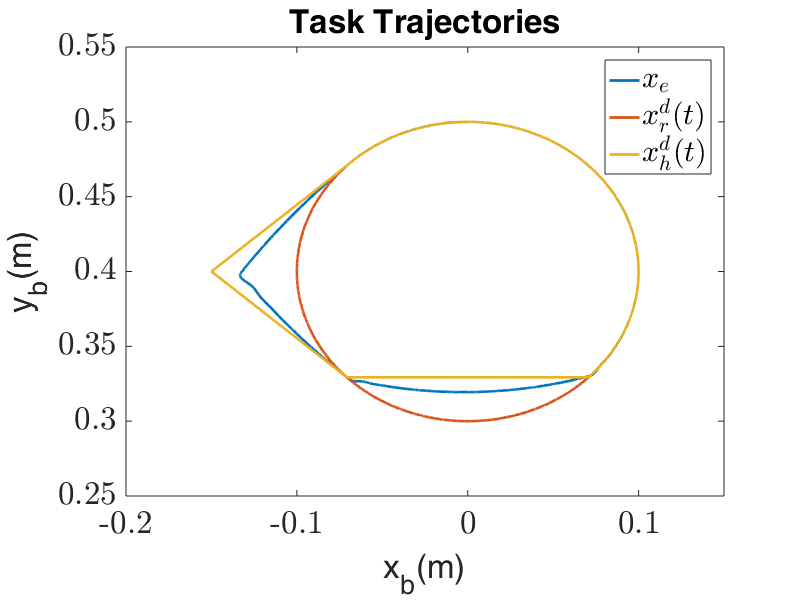
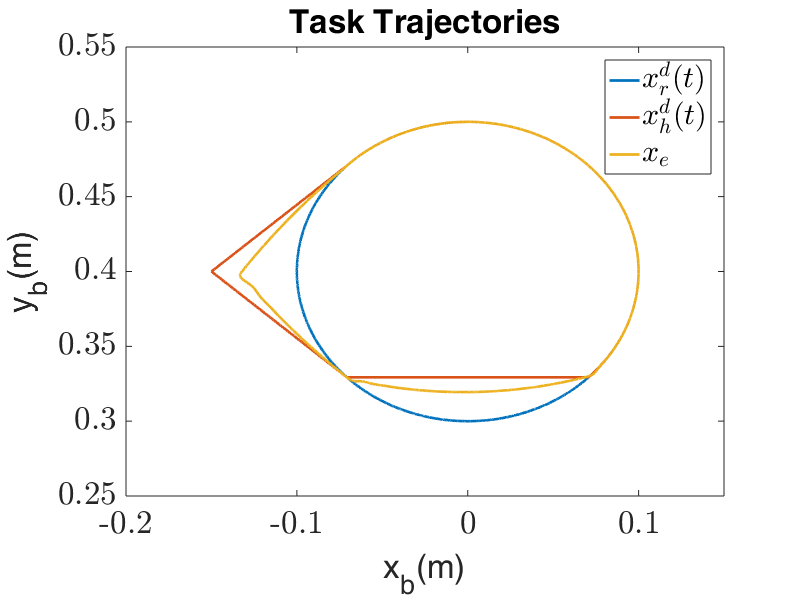
minor plot changes

diff --git a/ImpedanceControl/main.m b/ImpedanceControl/main.m
@@ -78,7 +78,7 @@ for i=1:length(t)
     [xR,xRDot,xRDotDot] = robotTraj(t(i),omega,tSim);
     xH = humanTraj(t(i),omega,tSim);
     
-    %alpha variation for simulation
+%     alpha variation for simulation
     
     icc = Kicc * norm(xR-xH) + iccMin;
     
@@ -170,14 +170,15 @@ end
 
 figure('pos',[10 10 800 600]);
 
-plot(Xe(1,:),Xe(2,:),'LineWidth',2);
-hold on;
+
 plot(Xr(1,:),Xr(2,:),'LineWidth',2);
 hold on;
 plot(Xh(1,:),Xh(2,:),'LineWidth',2);
 hold on;
+plot(Xe(1,:),Xe(2,:),'LineWidth',2);
+hold on;
 % plot(Xref(1,:),Xref(2,:));
-legend('$x_e$','$x_r^d(t)$','$x_h^d(t)$');
+legend('$x_r^d(t)$','$x_h^d(t)$','$x_e$');
 % legend('$x_r^d(t)$','$x_h^d(t)$');
 title('Task Trajectories')
 ylabel('y_{b}(m)');
